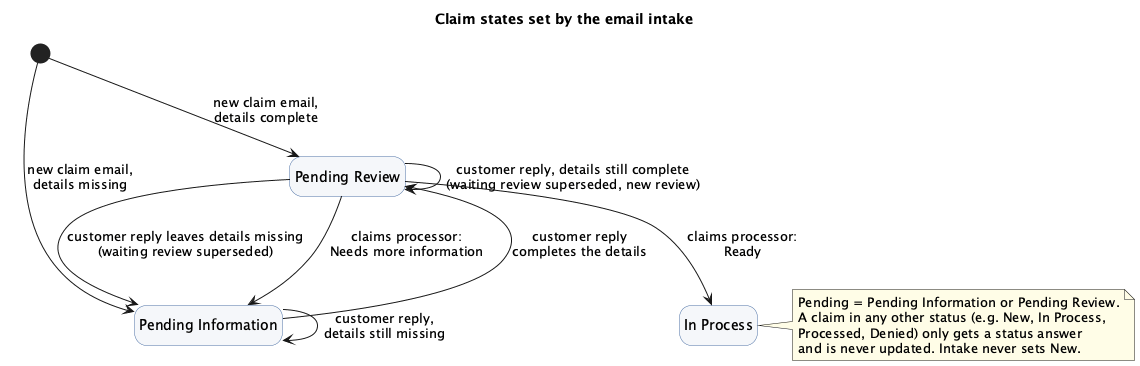
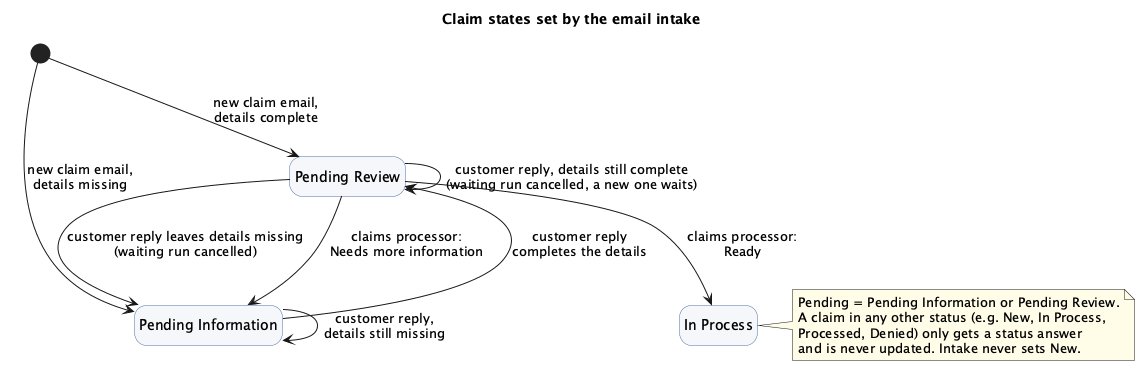
Revise the email intake design for quarkus-flow
The intake is now one quarkus-flow workflow per email, with the
agentic composition as one of its steps. This replaces the
@HumanInTheLoop + DatabaseAgenticScopeStore design merged in #220,
following the task 01b spike and its follow-ups.

- The review is the workflow's own wait (listen) and decision (switch)
  steps. A reply during review cancels the waiting run, after its own
  agents and policy check pass.
- The watcher doesn't wait for runs: different claims run in parallel,
  and a claim's emails run in order. A failure listener handles every
  failed run.
- The review endpoint publishes a decision event, after checking the
  run is still waiting.
- Durable state across restarts is not a requirement for this demo.
- Observability: one gen_ai.conversation.id per claim, carried as
  baggage by a framework-neutral ai.scoring.conversation package. Its
  known gaps and temporary workarounds are stated.

The three diagrams are updated and re-rendered. The architecture
diagram now shows the workflow steps around the agents.

Part of #216

diff --git a/docs/design/email-claim-intake.md b/docs/design/email-claim-intake.md
@@ -1,54 +1,67 @@
 # Design: email claim intake
 
 Status: proposed, for review before implementation ([#216](https://github.com/edeandrea/non-deterministic-no-problem/issues/216)).
+Revised after the quarkus-flow spike: the intake is now one [quarkus-flow](https://docs.quarkiverse.io/quarkus-flow/dev/)
+workflow, and the agents are one of its steps. This replaces the agentic human-in-the-loop design merged in
+[#220](https://github.com/edeandrea/non-deterministic-no-problem/pull/220).
 
 ## Goal
 
 Customers open a claim by emailing `claims@parasol.com`. The **intake system** classifies each email,
 extracts the details, asks the **customer** for anything missing and updates the claim as replies
 arrive. A **claims processor** then does one last completeness look-over (not an approval).
-The existing chat (`ClaimService`), `NotificationService` and `GenerateEmailService` stay unchanged,
-apart from the email sign-off shared with the new templates. Out of scope: non-English email, several
+The existing chat (`ClaimService`), `NotificationService` and `GenerateEmailService` behave as today.
+They share the email sign-off with the new templates, and the chat's conversation handling moves onto the
+new conversation package described under Observability, with no behaviour change. Out of scope: non-English email, several
 incidents in one email, the reviewer editing extracted fields, and drift detection for the new agents.
 
 The prerequisites are [#212](https://github.com/edeandrea/non-deterministic-no-problem/issues/212) (dependency upgrades), [#213](https://github.com/edeandrea/non-deterministic-no-problem/issues/213) (claim data model), [#214](https://github.com/edeandrea/non-deterministic-no-problem/issues/214) (claim images) and [#215](https://github.com/edeandrea/non-deterministic-no-problem/issues/215)
-(GreenMail and Roundcube). Progress is tracked in [#217](https://github.com/edeandrea/non-deterministic-no-problem/issues/217).
+(GreenMail and Roundcube), all merged. Progress is tracked in [#217](https://github.com/edeandrea/non-deterministic-no-problem/issues/217).
 
 ## Workflow
 
 ![Email claim intake workflow](claim-intake-workflow.png)
 
-A claim is **pending** while it is `Pending Information` or `Pending Review`.
+A claim is **pending** while it is `Pending Information` or `Pending Review`. Each email gets **one
+workflow run**, and the steps below are that run's steps.
 
-1. A watcher (IMAP IDLE) receives the email; emails are processed one at a time.
-2. Auto-replies, self-sent mail and duplicates (same `Message-ID`) are filed without a reply.
+1. A watcher (IMAP IDLE) receives the email, records its `Message-ID`, moves it to a `processing` folder
+   and starts its run **without waiting for it**. Runs for different claims go in parallel. Emails for the
+   same claim go in order: while that claim's run is still working, the next email waits behind it.
+2. Auto-replies, self-sent mail and duplicates (same `Message-ID`) are filed without a reply, and no run
+   starts.
 3. Code (not the LLM) matches the email to a claim: a claim number in the subject or body, then the
    reply headers. Only the claim's own email address may match it; anyone else gets the "no matching
    claim" reply, which gives no details and asks them to write from the claim's address or include
-   the claim number. A reply to a `Pending Review` claim supersedes the waiting review.
-4. The email is classified as a new claim, a follow-up or not a claim. **The matched claim wins:** a
-   matched email is a follow-up on that claim, whatever the label. Without a match the label decides;
+   the claim number. A reply to a `Pending Review` claim will **cancel** that claim's waiting run (step 6).
+4. The agents classify the email as a new claim, a follow-up or not a claim. **The matched claim wins:**
+   a matched email is a follow-up on that claim, whatever the label. Without a match the label decides;
    an unmatched "follow-up" gets the "no matching claim" reply, and nothing is created or changed.
 5. A matched claim in any other status (e.g. `New`, `In Process`, `Processed`, `Denied`) gets a status
    answer. For a matched pending claim, or an unmatched new claim, the details are extracted over the
    whole correspondence: what happened, incident date, location and category (`Other` counts).
-6. When the agents finish (a complete claim's run has already paused for review, state saved), the
-   processor applies the policy-number rule in code, before any claim is created or changed. If a
-   stated number belongs to another customer, it discards the run state, including a paused review,
-   and sends a vague "policy inconsistency" reply; no claim and no review exist.
+6. When the agents finish, the workflow applies the policy-number rule in code, before any claim is
+   created or changed. If a new claim states a number that belongs to another customer, it sends a vague
+   "policy inconsistency" reply and ends; no claim is created. Otherwise, if the claim was waiting for
+   review, its waiting run is cancelled now, just before the claim changes.
 7. If anything is missing, the claim is `Pending Information` and the customer is asked for exactly
    those items. Each reply starts again at step 1.
 8. When nothing is missing, the claim is `Pending Review`, the customer is told it's received and in
-   final review, and the paused run waits. Its state is saved in PostgreSQL, so it survives restarts.
-9. The email is filed when its run finishes, including when it pauses, and the watcher moves on. If
-   processing fails, the email goes to a failed folder and the customer gets a "processing problem" reply.
-10. Later, and separately, the claims processor decides on the claim detail page, and the workflow
-    resumes. **Ready** → `In Process` and a thank-you email. **Needs more information** (ticking items)
-    → `Pending Information` and an email listing exactly those items; the claim stays incomplete until
-    the customer answers them, so an empty reply doesn't go straight back to review.
+   final review, and the run **waits** for the claims processor without holding a thread. Flow keeps
+   the waiting run in PostgreSQL while the app runs. (A restart resets the demo: the claims, the mail
+   and any waiting review.)
+9. The run files the email before it waits or ends. If any step fails, before or after the wait, a
+   failure listener moves the email to a failed folder and the customer gets a "processing problem" reply.
+10. Later, and separately, the claims processor decides on the claim detail page, which wakes the
+    waiting run. **Ready** → `In Process` and a thank-you email. **Needs more information** (ticking
+    items) → `Pending Information` and an email listing exactly those items; the claim stays incomplete
+    until the customer answers them, so an empty reply doesn't go straight back to review. Applying the
+    decision makes no LLM call.
 
 Every submission gets a reply (fixed templates, except the AI-written status answer), apart from
-auto-replies, self-sent mail and duplicates.
+auto-replies, self-sent mail and duplicates. A reply and a decision arriving together are serialised by
+optimistic locking on the claim: whichever commits first wins. A losing decision gets a 409; a losing
+reply's email goes back in line behind the claim's run and is handled again under the claim's new status.
 
 ## Claim states
 
@@ -60,43 +73,66 @@ auto-replies, self-sent mail and duplicates.
 | (new) | New claim email with every detail present | `Pending Review` |
 | `Pending Information` | Customer reply, details still missing | `Pending Information` |
 | `Pending Information` | Customer reply completes the details | `Pending Review` |
-| `Pending Review` | Customer reply, details still complete: the waiting review is superseded by a new one | `Pending Review` |
-| `Pending Review` | Customer reply leaves details missing: the waiting review is superseded | `Pending Information` |
+| `Pending Review` | Customer reply, details still complete: the waiting run is cancelled and a new one waits | `Pending Review` |
+| `Pending Review` | Customer reply leaves details missing: the waiting run is cancelled | `Pending Information` |
 | `Pending Review` | Claims processor: Needs more information | `Pending Information` |
 | `Pending Review` | Claims processor: Ready | `In Process` |
 
 Claims in any other status (e.g. `New`, `In Process`, `Processed`, `Denied`) only get a status answer
 and are never updated. Intake never sets `New`.
 
-## Agent architecture
+## Architecture
 
-![Email claim intake agent topology](claim-intake-agents.png)
+![Email claim intake: workflow and agents](claim-intake-agents.png)
 
-`ClaimEmailProcessor` matches the claim and checks the sender, then calls the root workflow
-`ClaimsMailboxAgent` with the matched claim (or none). Its memory id is the inbound `Message-ID`. It
-runs three steps in sequence:
+**The workflow.** `ClaimIntakeFlow` is one quarkus-flow workflow, and its steps do the side effects
+(apart from filing skipped mail and handling a failed run, which a failure listener does): cancel a superseded run, check the policy number, save the claim and photos, send the reply
+(`IntakeReplySender`, Qute templates), and file the email. For a complete claim, a `listen` step then
+waits for a `REVIEW_DECIDED` event for that claim, and a `switch` applies the decision. Flow's Dev UI
+draws the workflow as a diagram. `ClaimIntakeStarter` does the checks before a run (loop and duplicate checks,
+claim match, sender check), keeps each claim's emails in order, and starts the run; nothing waits for it.
+The app runs as a **single replica**: cancelling a run and delivering the decision event both happen
+in-process.
+
+**The agents** are one workflow step. `ClaimsMailboxAgent` is the root (a sequence), called with the
+email, the matched claim (or none) and the claim's history:
 
 - `EmailClassifierAgent` (LLM) returns the email type.
 - `EmailRouter` (no LLM) routes on the matched claim first, then on the type:
   - matched pending claims, and unmatched new claims, go to `ClaimExtractionWorkflow`: three LLM agents
     in parallel, `ClaimSummaryAgent`, `ClaimSentimentAgent` and `IncidentDetailsAgent` (description,
-    date, location, category, stated policy number).
+    date, optional time, location, category, stated policy number).
   - matched claims in any other status go to `ClaimFollowUpAgent` (LLM), which writes the status
     answer using a read-only status tool.
-  - unmatched "not a claim" and "follow-up" emails go to a non-LLM agent for those two outcomes.
-- When every required detail is present, `ClaimReviewAgent` (non-LLM, human in the loop) pauses the
-  workflow without blocking a thread; `DatabaseAgenticScopeStore` saves the state.
+  - unmatched "not a claim" and "follow-up" emails go to `UnmatchedEmailAgent` (no LLM) for those two outcomes.
 
-The decision (`POST /api/db/claims/{id}/review-decisions`) goes to `ClaimReviewService`, which
-completes the pending review and re-runs the root with the same `Message-ID`. Completed agents are
-skipped; a non-LLM router turns the decision into the outcome. The paused state is deleted when the run
-ends, a customer reply supersedes the review, or the policy check rejects the claim.
+Flow runs each composite (sequence, router, parallel) as its own sub-workflow, and the parallel one really
+runs in parallel. The agents only decide: they return an `IntakeOutcome`, have no side effects, and never
+pause. All LLM agents use the `claim-intake` model. They're stateless (no chat memory, no retrieval over
+the policy PDF): the workflow passes the claim's history (correspondence, fields extracted so far, items
+requested) in on every run.
 
-All LLM agents use the `claim-intake` model. Agents only decide, returning an `IntakeOutcome` with no
-side effects. `ClaimEmailProcessor` checks the policy number, saves the claim and photos,
-sends the reply through `IntakeReplySender`, and files the email. The agents are stateless (no chat
-memory, no retrieval over the policy PDF); the processor passes the claim's history (correspondence,
-fields extracted so far, items requested) in on every run.
+**The review decision** (`POST /api/db/claims/{id}/review-decisions`) claims the review under the claim's
+lock, checks that the claim's run is still waiting (404 if it's gone, 409 if it isn't waiting), and
+publishes the decision event. It returns once the event is published (202), and the waiting run applies it.
 
-The framework workarounds this design depends on were verified in a throwaway spike for [#216](https://github.com/edeandrea/non-deterministic-no-problem/issues/216); the
-findings are summarised in the pull request that introduced this document.
+**Observability.** The goal is that every span of a claim's runs carries the same
+`gen_ai.conversation.id`, so Langfuse groups each claim into one session. One run is still several
+traces ([quarkus-flow#1056](https://github.com/quarkiverse/quarkus-flow/issues/1056)); the shared id is what
+ties them together. The id is OTel baggage, entered once when a run starts. The code that carries it across
+the chat, Flow and the agents is our own framework-neutral package, `ai.scoring.conversation`, kept
+separate so it can later become its own library. It has a small core (the conversation context, a span
+processor that stamps the id, and a "conversation ended" event), one adapter per framework, and no intake
+code. Two parts of it are temporary workarounds:
+- a guard for a Quarkus context-propagation bug ([quarkus#54354](https://github.com/quarkusio/quarkus/issues/54354)),
+  which otherwise leaks one run's id onto another run's spans;
+- an agent adapter that carries the id into Flow's generated agent sub-workflows until #1056 is fixed. It's
+  proven before implementation starts.
+
+The chat moves onto the same package, and session scoring becomes a listener for a "conversation ended"
+event. Nothing in the intake ends a conversation yet, so intake LLM calls get tier-1 scores but claims get
+no session score.
+
+quarkus-flow is 1.1.3; its LangChain4j and OpenTelemetry integrations are Preview extensions. The spike
+evidence behind this design is in
+[`spike-results-flow.md`](../../.tasks/05-gh216-agentic-email-intake/spike-results-flow.md).
